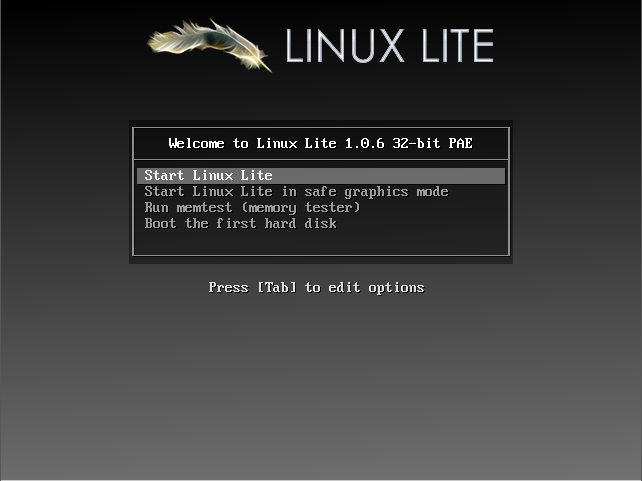
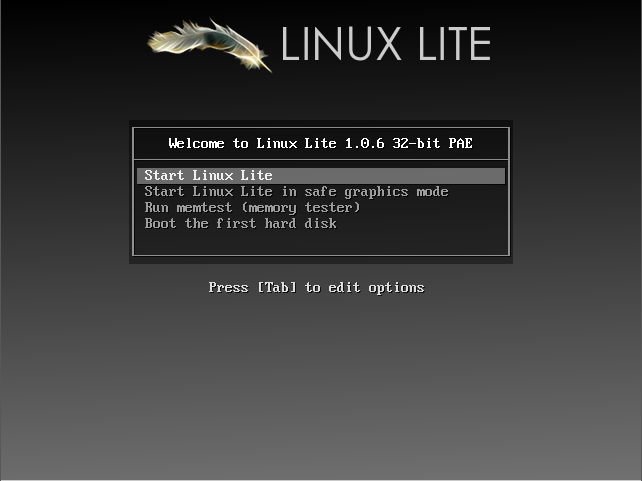
manual

Changed region(s): [[0.6542, 0.0312, 0.7788, 0.1559], [0.4361, 0.0624, 0.6231, 0.1247]]

diff --git a/C/install.html b/C/install.html
@@ -95,7 +95,7 @@
 				USB stick into your computer and reboot your computer. You&#39;ll 
 				be greeted with the following screen. Let the timer run down if 
 				you want to boot to the Live session.<p>
-				<img border="0" src="img/installer/boot.png"><p>
+				<img border="0" src="img/installer/boot1.png"><p>
 				Press any key to see the next screen.<p>
 				<img border="0" src="img/installer/boot2.png"><p>
 				Make sure <b>Start Linux Lite</b> is highlighted, press the 
